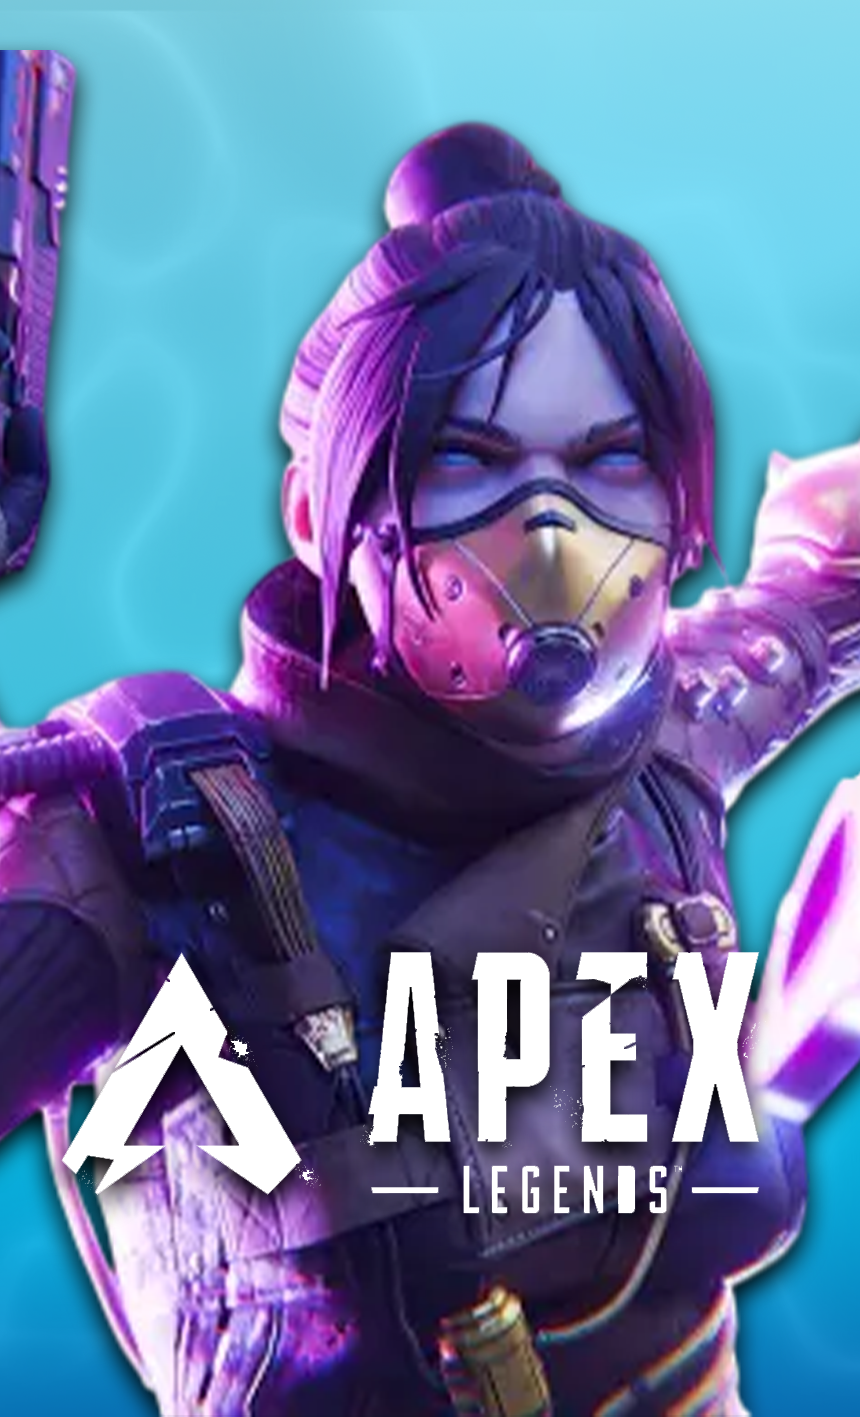
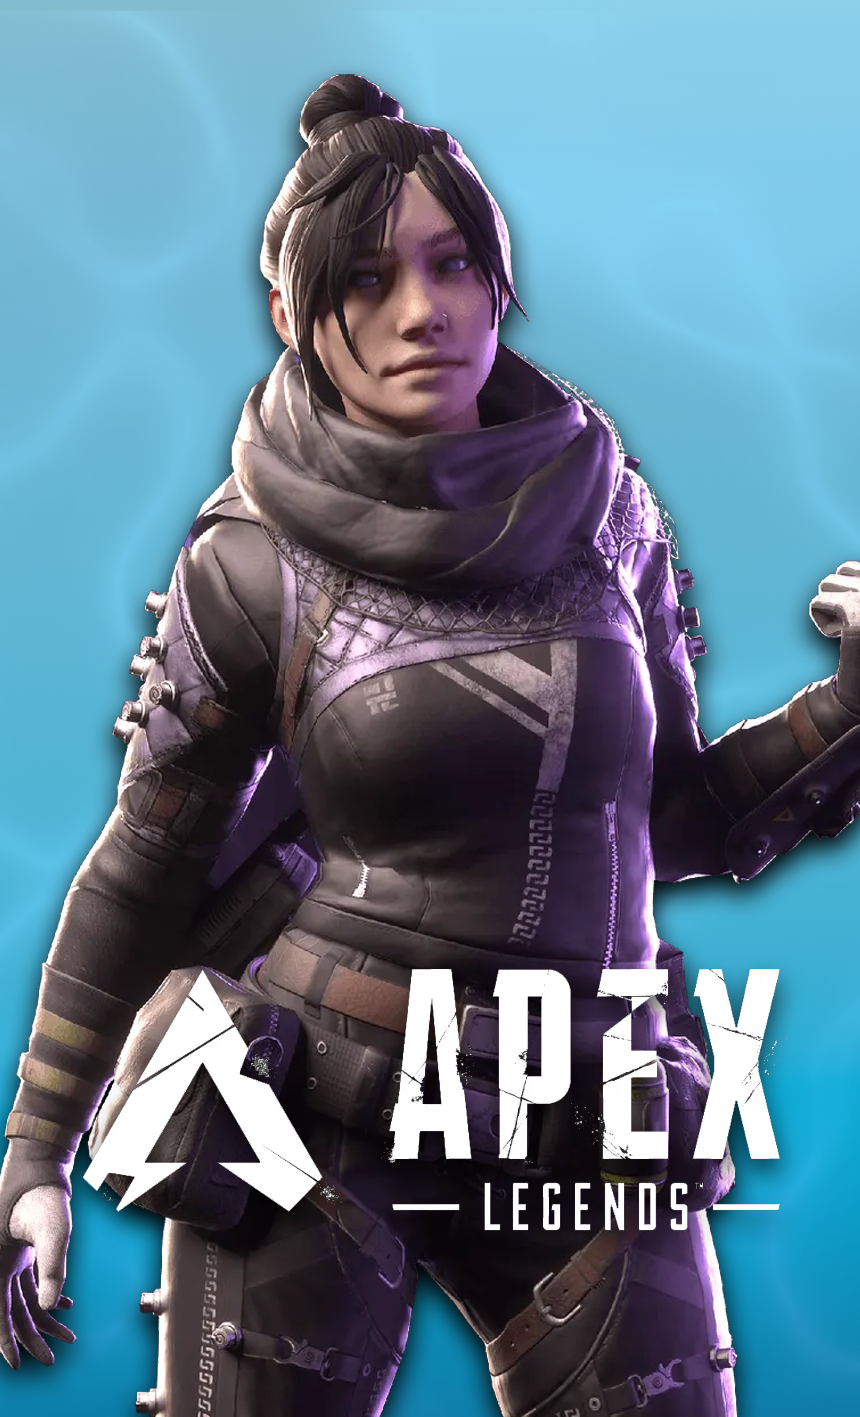
fix: explicit media-src CSP + update apex category image
- Add media-src 'self' blob: to CSP so hero.mp4 is never blocked on
  production (localhost skips custom headers; Vercel applies them)
- Replace apex_category.png with updated artwork

diff --git a/next.config.ts b/next.config.ts
@@ -98,7 +98,7 @@ const nextConfig: NextConfig = {
           {
             key: "Content-Security-Policy",
             value:
-              "default-src 'self'; script-src 'self' 'unsafe-inline'; style-src 'self' 'unsafe-inline'; img-src 'self' data: https:; font-src 'self' data:; connect-src 'self' https:; frame-src https://odysee.com https://www.youtube.com https://player.vimeo.com; frame-ancestors 'none';",
+              "default-src 'self'; script-src 'self' 'unsafe-inline'; style-src 'self' 'unsafe-inline'; img-src 'self' data: https:; font-src 'self' data:; media-src 'self' blob:; connect-src 'self' https:; frame-src https://odysee.com https://www.youtube.com https://player.vimeo.com; frame-ancestors 'none';",
           },
         ],
       },
